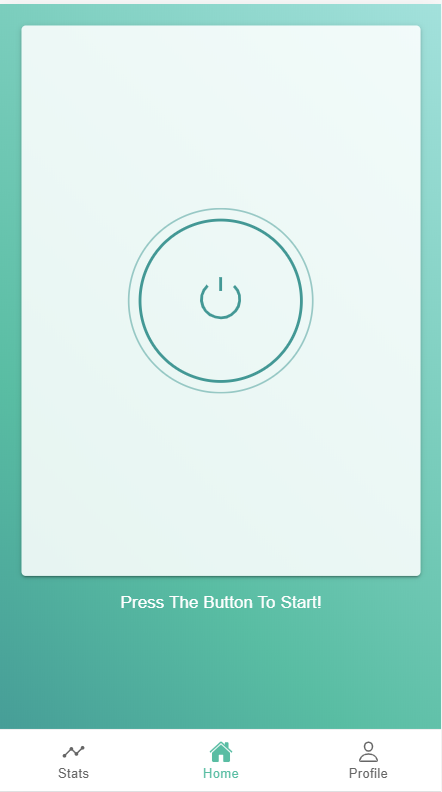
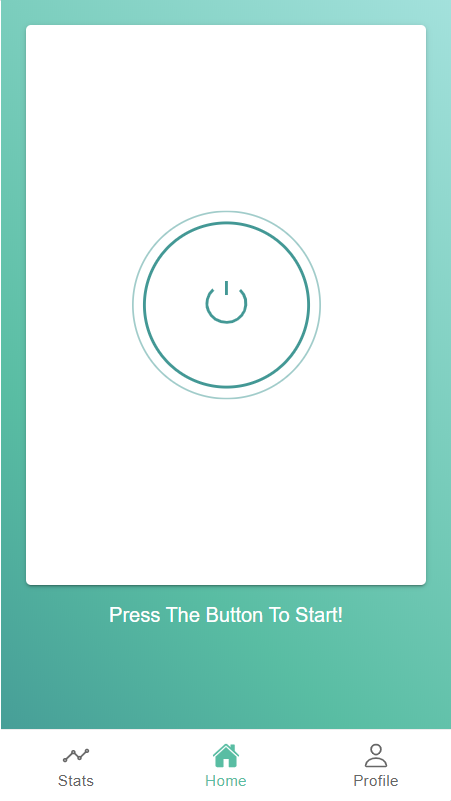
change the theme color

diff --git a/sitUpFrontEnd/src/app/profileTab/profileTab.page.scss b/sitUpFrontEnd/src/app/profileTab/profileTab.page.scss
@@ -15,7 +15,7 @@ ion-item{
     color: red;
 }
 ion-content{
-    --ion-background-color: #fafffe;
+    --ion-background-color: #ffffff;
     // --ion-background-color: linear-gradient(0deg, #5fb49e 0%, #69c9af 10%, #a3e1dc 100%) !important;
     
 }

diff --git a/sitUpFrontEnd/src/app/home/home.page.scss b/sitUpFrontEnd/src/app/home/home.page.scss
@@ -46,5 +46,5 @@ button {
 
 
 ion-card{
-    --ion-background-color: #ffffffdc;
+    --ion-background-color: #ffffffff;
 }

diff --git a/sitUpFrontEnd/src/app/demo/demo.page.scss b/sitUpFrontEnd/src/app/demo/demo.page.scss
@@ -46,5 +46,5 @@ button {
 
 
 ion-card{
-    --ion-background-color: #ffffffdc;
+    --ion-background-color: #ffffff;
 }
